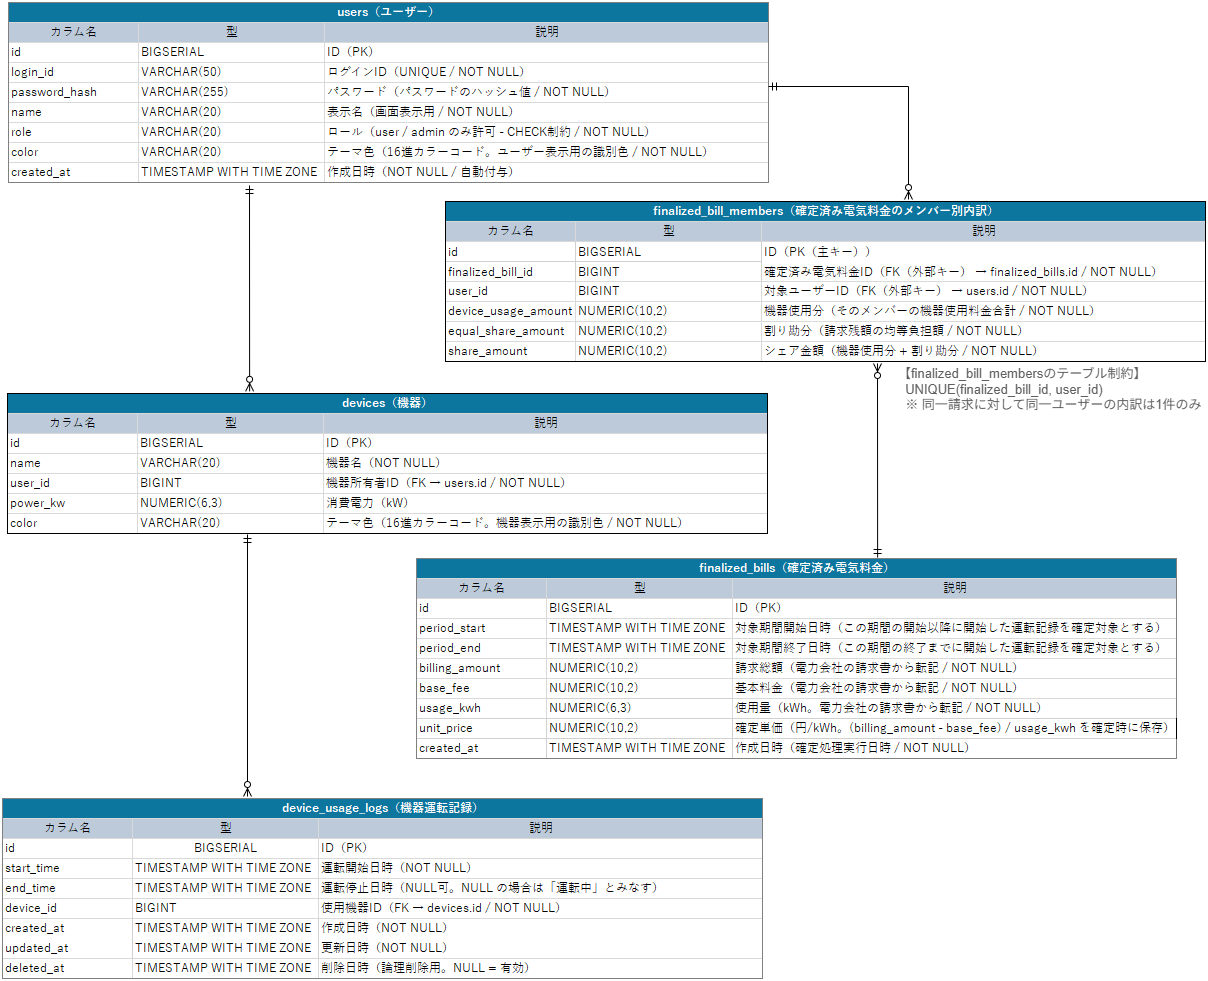
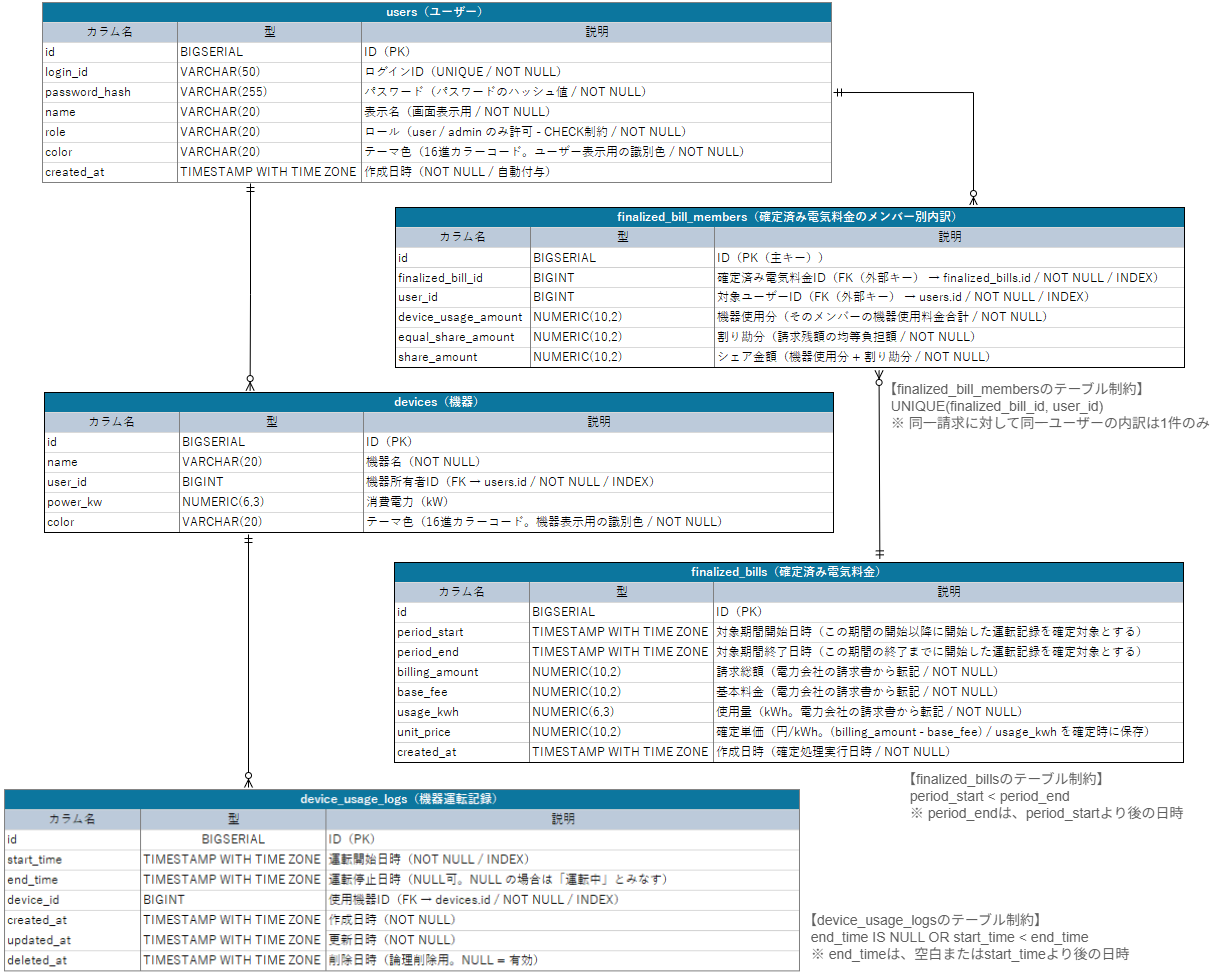
feat: ER図の修正およびDBモデル定義を追加（CHECK制約・UNIQUE制約・INDEX含む）

Changed region(s): [[0.0, 0.0, 1.0, 1.0], [0.6432, 0.924, 0.9189, 0.9856], [0.6126, 0.0, 0.7045, 0.0924]]

diff --git a/models.py b/models.py
@@ -1,7 +1,7 @@
 from flask_sqlalchemy import SQLAlchemy  # SQLAlchemy（ORM：PythonのクラスでDBを扱えるライブラリ）
 # from flask_login import UserMixin
 # from werkzeug.security import generate_password_hash, check_password_hash
-# from sqlalchemy.sql import func  # Postgresでも安全な日時関数
+from sqlalchemy.sql import func  # Postgresでも安全な日時関数
 
 
 # アプリ全体で共有する DB オブジェクト
@@ -9,3 +9,142 @@ db = SQLAlchemy()
 
 
 # --- ○○モデル---
+
+
+class User(db.Model):
+    __tablename__ = "users"
+    __table_args__ = (    # CHECK制約
+        db.CheckConstraint("role IN ('user', 'admin')", name="ck_users_role"),
+    )
+
+    id = db.Column(db.BigInteger, primary_key=True)
+    login_id = db.Column(db.String(50), unique=True, nullable=False)
+    password_hash = db.Column(db.String(255), nullable=False)
+    name = db.Column(db.String(20), nullable=False)
+    role = db.Column(db.String(20), nullable=False)
+    color = db.Column(db.String(20), nullable=False)
+    created_at = db.Column(
+        db.DateTime(timezone=True),
+        server_default=func.now(),
+        nullable=False,
+    )
+
+    devices = db.relationship("Device", back_populates="user")
+    finalized_bill_members = db.relationship(
+        "FinalizedBillMember", back_populates="user"
+    )
+
+
+class Device(db.Model):
+    __tablename__ = "devices"
+
+    id = db.Column(db.BigInteger, primary_key=True)
+    name = db.Column(db.String(20), nullable=False)
+    user_id = db.Column(
+        db.BigInteger,
+        db.ForeignKey("users.id"),
+        nullable=False,
+        index=True,
+    )
+    power_kw = db.Column(db.Numeric(6, 3), nullable=False)
+    color = db.Column(db.String(20), nullable=False)
+
+    user = db.relationship("User", back_populates="devices")
+    usage_logs = db.relationship("DeviceUsageLog", back_populates="device")
+
+
+class DeviceUsageLog(db.Model):
+    __tablename__ = "device_usage_logs"
+    __table_args__ = (    # CHECK制約
+        db.CheckConstraint(
+            "end_time IS NULL OR start_time < end_time",
+            name="ck_usage_log_time_order",
+        ),
+    )
+
+    id = db.Column(db.BigInteger, primary_key=True)
+    start_time = db.Column(
+        db.DateTime(timezone=True),
+        nullable=False,
+        index=True,
+    )
+    end_time = db.Column(db.DateTime(timezone=True), nullable=True)
+    device_id = db.Column(
+        db.BigInteger,
+        db.ForeignKey("devices.id"),
+        nullable=False,
+        index=True,
+    )
+    created_at = db.Column(
+        db.DateTime(timezone=True),
+        server_default=func.now(),
+        nullable=False,
+    )
+    updated_at = db.Column(
+        db.DateTime(timezone=True),
+        server_default=func.now(),
+        onupdate=func.now(),
+        nullable=False,
+    )
+    deleted_at = db.Column(
+        db.DateTime(timezone=True),
+        nullable=True,
+    )
+
+    device = db.relationship("Device", back_populates="usage_logs")
+
+
+class FinalizedBill(db.Model):
+    __tablename__ = "finalized_bills"
+    __table_args__ = (    # CHECK制約
+        db.CheckConstraint(
+            "period_start < period_end",
+            name="ck_bill_period_order",
+        ),
+    )
+
+    id = db.Column(db.BigInteger, primary_key=True)
+    period_start = db.Column(db.DateTime(timezone=True), nullable=False)
+    period_end = db.Column(db.DateTime(timezone=True), nullable=False)
+    billing_amount = db.Column(db.Numeric(10, 2), nullable=False)
+    base_fee = db.Column(db.Numeric(10, 2), nullable=False)
+    usage_kwh = db.Column(db.Numeric(6, 3), nullable=False)
+    unit_price = db.Column(db.Numeric(10, 2), nullable=False)
+    created_at = db.Column(
+        db.DateTime(timezone=True),
+        server_default=func.now(),
+        nullable=False,
+    )
+
+    finalized_bill_members = db.relationship(
+        "FinalizedBillMember", back_populates="finalized_bill"
+    )
+
+
+class FinalizedBillMember(db.Model):
+    __tablename__ = "finalized_bill_members"
+    __table_args__ = (    # UNIQUE制約
+        db.UniqueConstraint("finalized_bill_id", "user_id"),
+    )
+
+    id = db.Column(db.BigInteger, primary_key=True)
+    finalized_bill_id = db.Column(
+        db.BigInteger,
+        db.ForeignKey("finalized_bills.id"),
+        nullable=False,
+        index=True,
+    )
+    user_id = db.Column(
+        db.BigInteger,
+        db.ForeignKey("users.id"),
+        nullable=False,
+        index=True,
+    )
+    device_usage_amount = db.Column(db.Numeric(10, 2), nullable=False)
+    equal_share_amount = db.Column(db.Numeric(10, 2), nullable=False)
+    share_amount = db.Column(db.Numeric(10, 2), nullable=False)
+
+    finalized_bill = db.relationship(
+        "FinalizedBill", back_populates="finalized_bill_members"
+    )
+    user = db.relationship("User", back_populates="finalized_bill_members")
